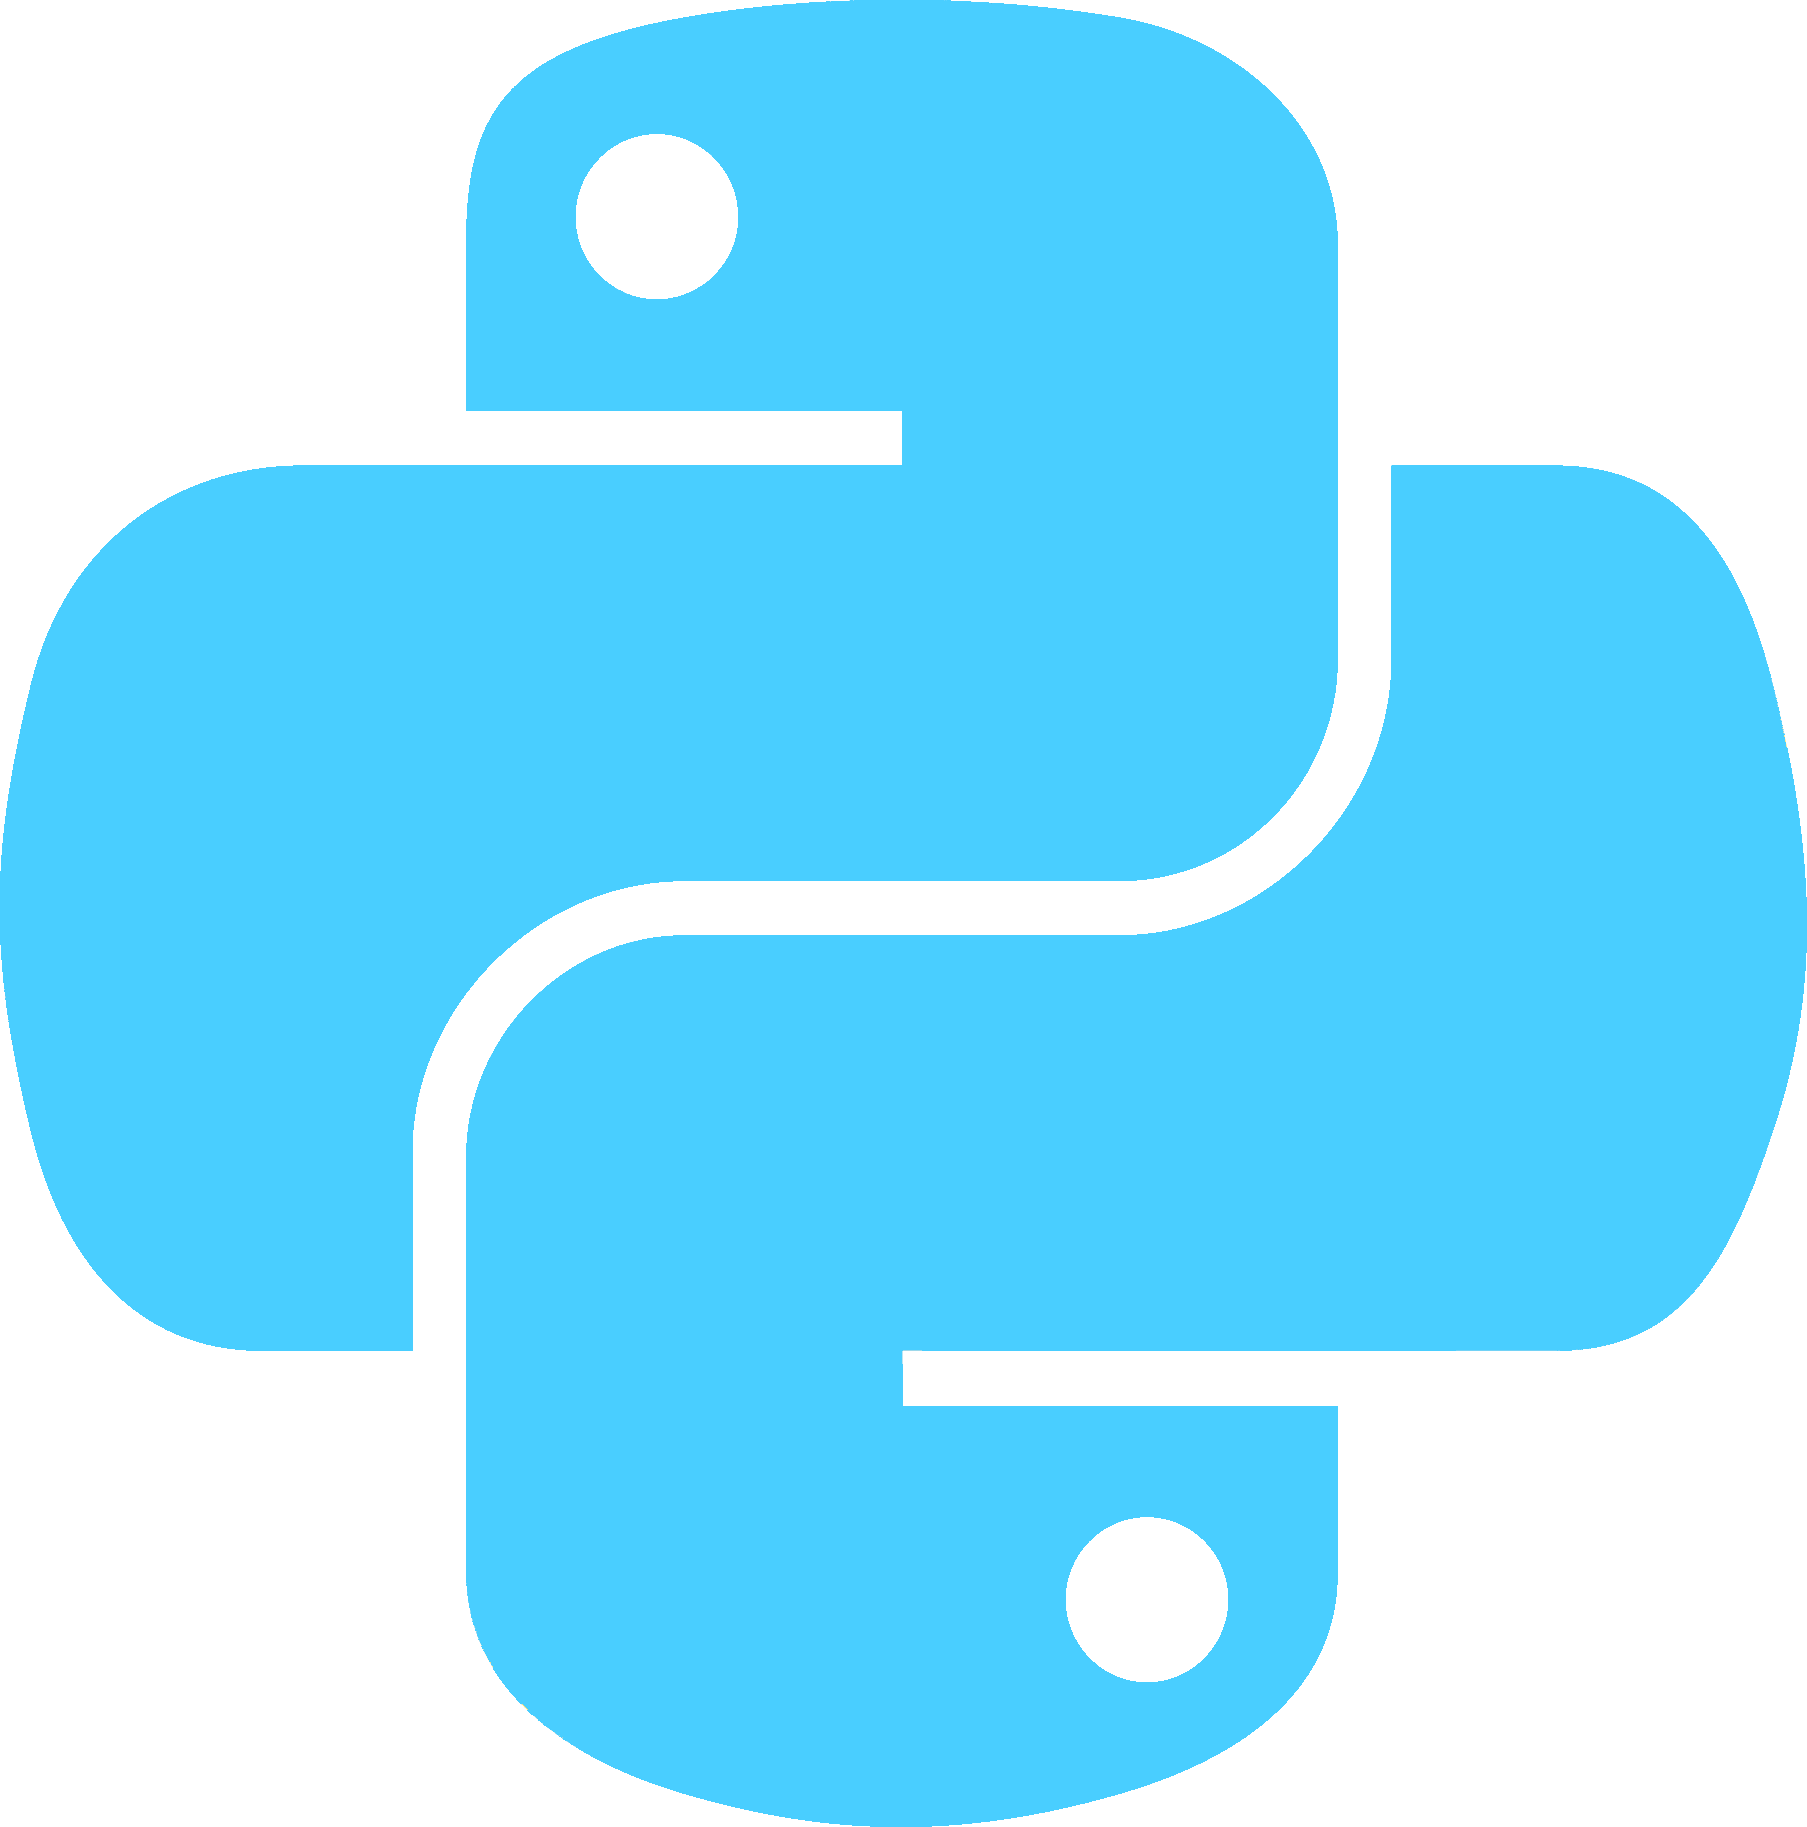
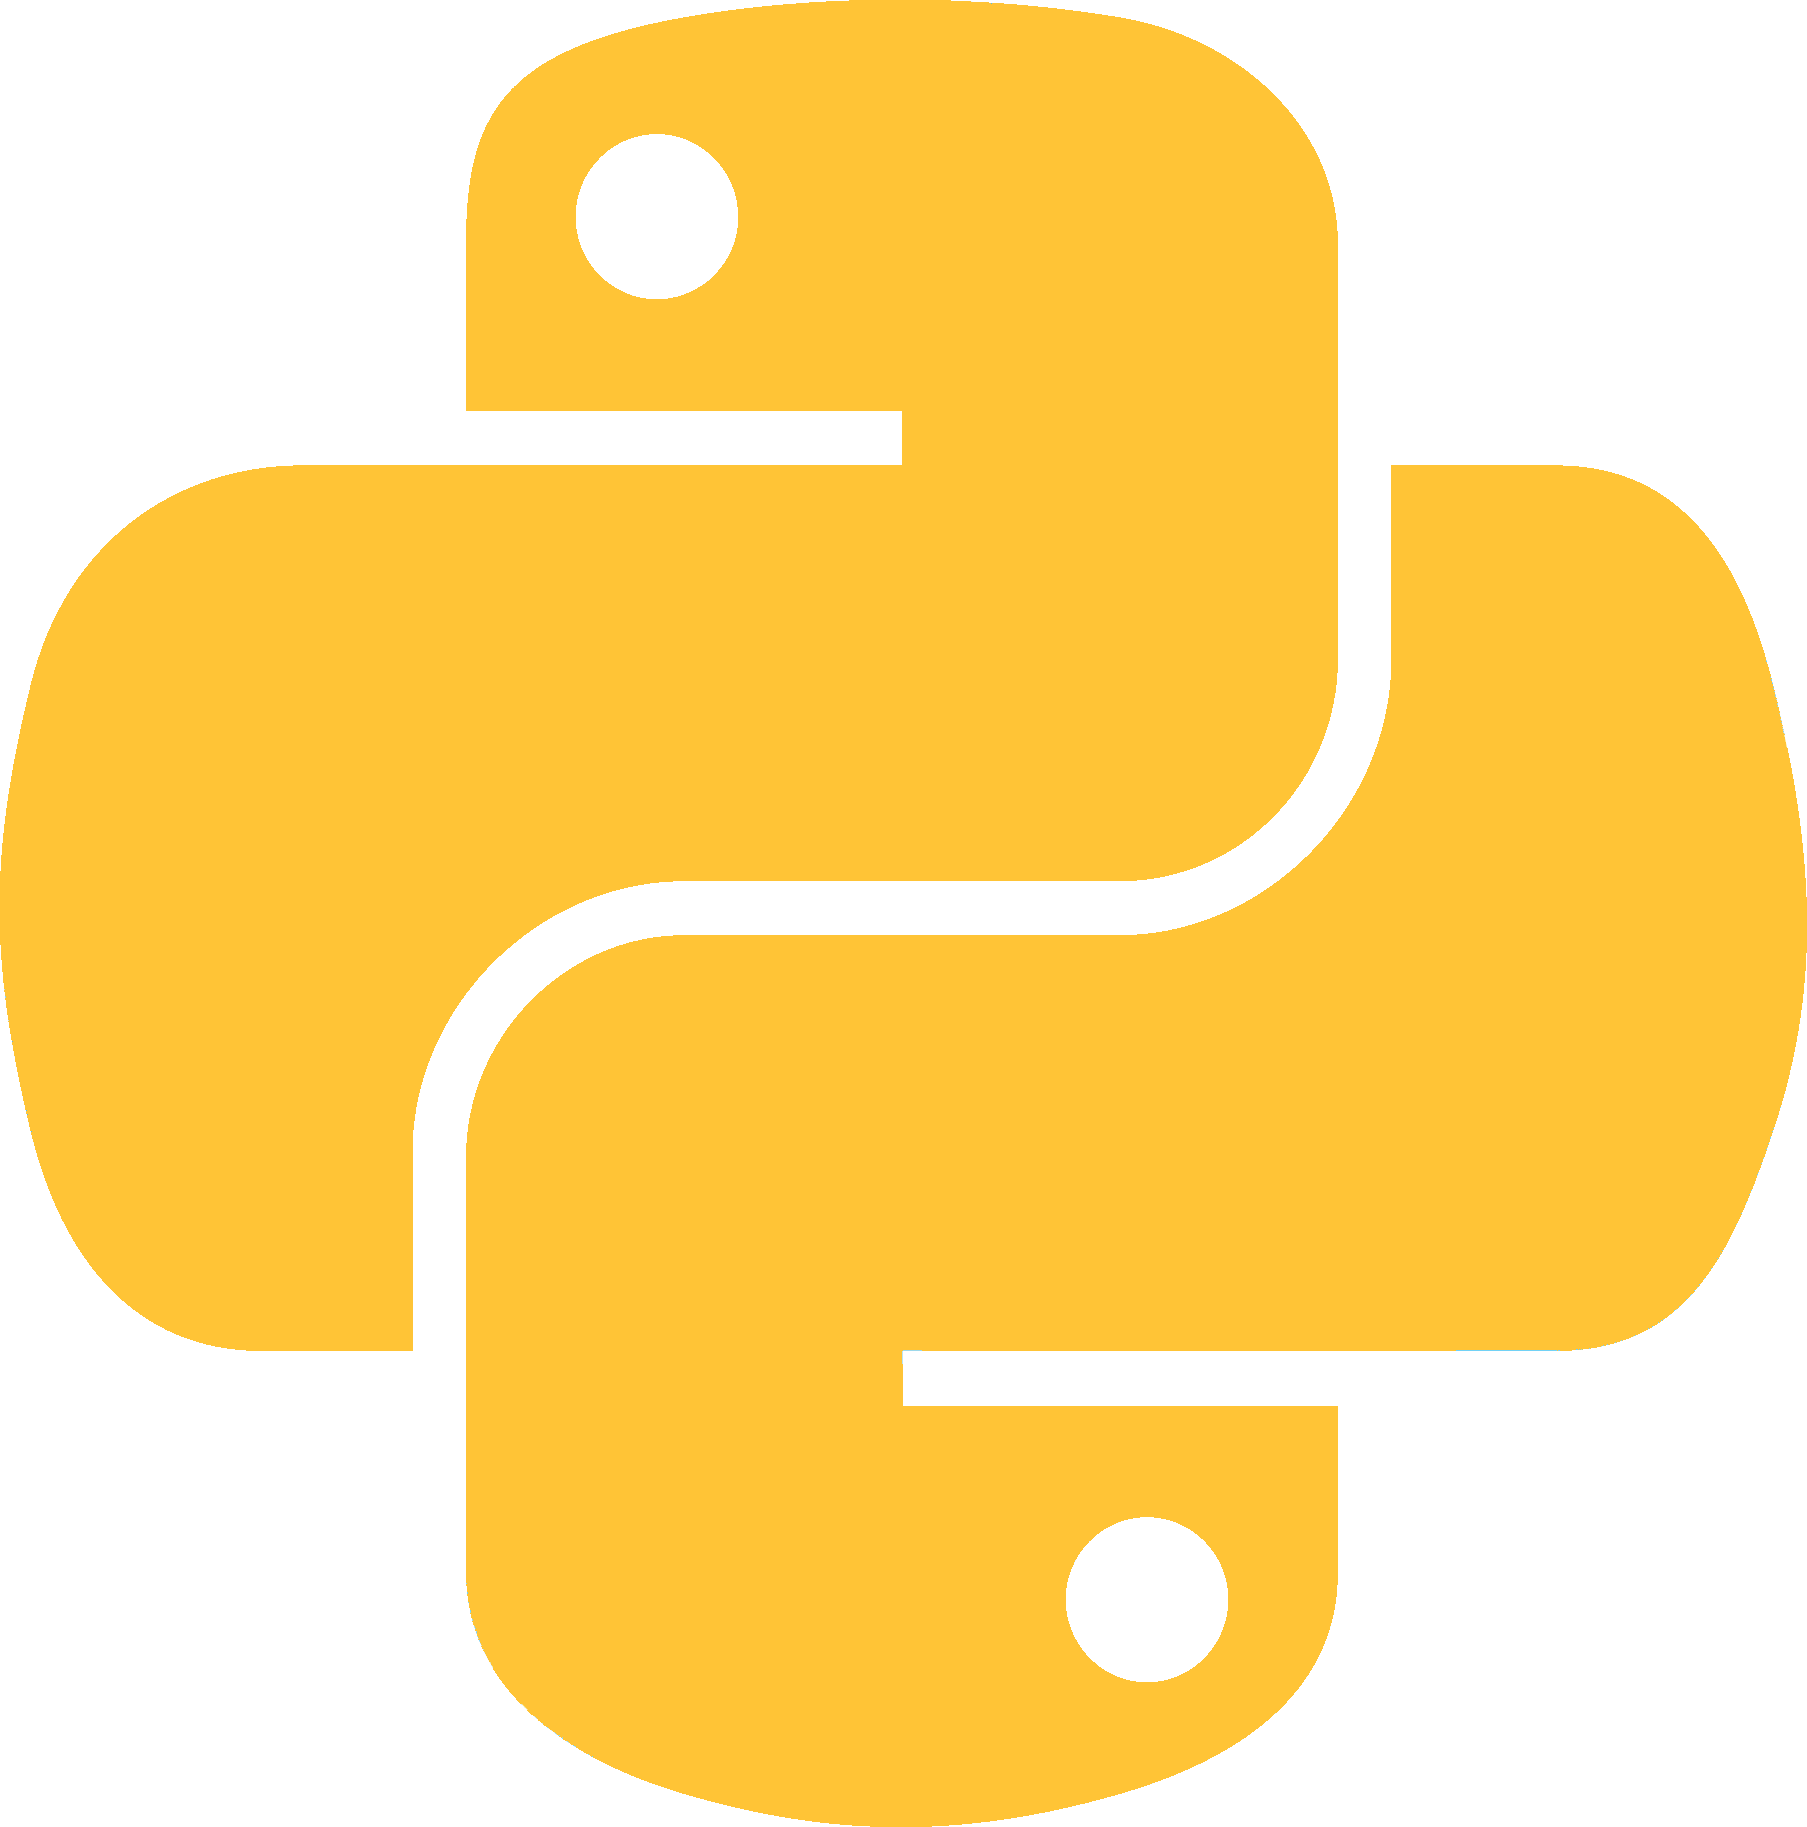
Feat: Design Changes, Taskbar in New File
- Change color scheme
- Put taskbar into own file

diff --git a/task_bar.py b/task_bar.py
@@ -1,0 +1,65 @@
+from datetime import datetime
+from PIL import Image
+
+import customtkinter as ctk
+
+from styles import desktop_colors, desktop_highlight_colors
+
+class TaskBar:
+    def __init__(self, os, gui) -> None:
+        self.os = os
+        self.gui = gui
+
+        self.create_variables()
+        self.icon_setup()
+        self.create_taskbar()
+        self.create_start_menu()
+        self.create_time_date()
+        
+
+    def create_variables(self):
+        self.WINDOW = self.gui.WINDOW
+        self.width = self.gui.width
+        self.height = self.gui.height
+
+    
+    def icon_setup(self) -> None:
+        self.python_icon = ctk.CTkImage(Image.open("assets/python_icon.png"), size=(40, 40))
+        self.snake_icon = ctk.CTkImage(light_image=Image.open("assets/snake_blue_icon.png"), dark_image=Image.open("assets/snake_yellow_icon.png"), size=(32, 32))
+
+    
+    def create_taskbar(self) -> None:
+        self.taskbar = ctk.CTkFrame(self.WINDOW, height=45, width=self.width, fg_color=desktop_colors, corner_radius=0)
+        self.taskbar.place(anchor="s", relx=0.5, rely=1)
+
+        self.taskbar_app_frame = ctk.CTkFrame(self.taskbar, fg_color="transparent")
+        self.taskbar_app_frame.place(anchor="center", relx=0.5, rely=0.5)
+
+        self.start_button = ctk.CTkButton(self.taskbar, text="", image=self.python_icon, width=45, height=45, fg_color="transparent", 
+                                          command=self.os.start_menu_mechanism, hover_color=desktop_highlight_colors)
+        self.start_button.place(anchor="w", relx=0, rely=0.5)
+
+        self.create_default_taskbar_apps()
+
+
+    def create_start_menu(self) -> None:
+        self.start_menu_frame = ctk.CTkFrame(self.WINDOW, width=self.width/6, height=self.height/4)
+        self.start_menu_frame.pack_propagate(False)
+
+        self.shut_down_button = ctk.CTkButton(self.start_menu_frame, width=self.width/20, height=self.height/20, text="Shut down", command=self.os.quit)
+        self.shut_down_button.pack()
+        self.restart_button = ctk.CTkButton(self.start_menu_frame, width=self.width/20, height=self.height/20, text="Restart", command=self.os.restart)
+        self.restart_button.pack()
+
+
+    def create_time_date(self):
+        self.time_date_frame = ctk.CTkFrame(self.taskbar, width=self.width/20, height=45, fg_color="transparent")
+        self.time_date_frame.place(anchor="e", relx=1, rely=0.5)
+
+    
+    def create_default_taskbar_apps(self):
+        self.python_game_frame = ctk.CTkFrame(self.taskbar_app_frame, fg_color="transparent")
+        self.python_game_frame.pack(padx=self.width/30)
+        self.python_game_button = ctk.CTkButton(self.python_game_frame, command=lambda: self.os.play_game("python"), width=45, height=45, text="", 
+                                                image=self.snake_icon, fg_color="transparent", hover_color=desktop_highlight_colors)
+        self.python_game_button.place(anchor="center", relx=0.5, rely=0.5)

diff --git a/desktop.py b/desktop.py
@@ -2,6 +2,8 @@ from PIL import Image
 
 import customtkinter as ctk
 
+from styles import desktop_blue, desktop_yellow
+
 class DesktopGUI:
     def __init__(self, os) -> None:
         self.os = os
@@ -25,36 +27,13 @@ class DesktopGUI:
 
 
     def icon_setup(self) -> None:
-        self.python_icon = ctk.CTkImage(Image.open("assets/python_icon.png"), size=(40, 40))
         self.python_logo = ctk.CTkImage(Image.open("assets/python_logo.png"), size=(self.height/5, self.height/5))
 
     
     def create_gui(self) -> None:
-        self.create_taskbar()
         self.create_desktop()
-        self.create_start_menu()
         self.create_desktop_actions()
         self.create_new_action()
-
-
-    def create_taskbar(self) -> None:
-        self.taskbar = ctk.CTkFrame(self.WINDOW, height=45, width=self.width, fg_color="grey", corner_radius=0)
-        self.taskbar.place(anchor="s", relx=0.5, rely=1)
-
-        self.taskbar_app_frame = ctk.CTkFrame(self.taskbar, fg_color="transparent")
-        self.taskbar_app_frame.place(anchor="center", relx=0.5, rely=0.5)
-
-        self.start_button = ctk.CTkButton(self.taskbar, text="", image=self.python_icon, width=45, height=45, fg_color="transparent", command=self.os.start_menu_mechanism)
-        self.start_button.place(anchor="w", relx=0, rely=0.5)
-
-        self.create_default_taskbar_apps()
-
-    
-    def create_default_taskbar_apps(self):
-        self.python_game_frame = ctk.CTkFrame(self.taskbar_app_frame, fg_color="transparent")
-        self.python_game_frame.pack(padx=self.width/30)
-        self.python_game_button = ctk.CTkButton(self.python_game_frame, command=lambda: self.os.play_game("python"), width=45, height=45, text="")
-        self.python_game_button.place(anchor="center", relx=0.5, rely=0.5)
 
 
     def create_desktop(self) -> None:
@@ -62,15 +41,6 @@ class DesktopGUI:
         self.desktop_frame.place(anchor="n", relx=0.5, rely=0)
         self.desktop_logo = ctk.CTkLabel(self.desktop_frame, image=self.python_logo, text="")
         self.desktop_logo.place(anchor="center", relx=0.5, rely=0.5)
-
-    
-    def create_start_menu(self) -> None:
-        self.start_menu_frame = ctk.CTkFrame(self.WINDOW)
-
-        self.shut_down_button = ctk.CTkButton(self.start_menu_frame, width=self.width/20, height=self.height/20, text="Shut down", command=self.os.quit)
-        self.shut_down_button.pack()
-        self.restart_button = ctk.CTkButton(self.start_menu_frame, width=self.width/20, height=self.height/20, text="Restart", command=self.os.restart)
-        self.restart_button.pack()
 
 
     def create_desktop_actions(self) -> None:

diff --git a/python_game.py b/python_game.py
@@ -3,7 +3,7 @@ import random
 import customtkinter as ctk
 from playsound import playsound
 
-from styles import button_font_color, button_color, python_blue, python_yellow, button_font_size, font_family_bold, button_hover_color, font_color, font_size_big, font_size_xxl, font_family
+from styles import button_font_color, button_color, python_blue, python_yellow, button_font_size, font_family_bold, button_hover_color, font_color, font_size_big, font_size_xxl, font_family, desktop_colors
 
 class PythonGame:
     def __init__(self, os_window) -> None:
@@ -26,16 +26,19 @@ class PythonGame:
     
     def create_window(self) -> None:
         self.WINDOW = ctk.CTkToplevel()
+        self.WINDOW.iconbitmap("Assets/snake_yellow_icon.ico")
         self.WINDOW.geometry(str(self.WINDOW_WIDTH) + "x" + str(self.WINDOW_HEIGHT))
-        self.WINDOW.configure(fg_color=(python_yellow, python_blue))
-        self.WINDOW.title("Python.exe")
+        self.WINDOW.configure(fg_color=desktop_colors)
+        self.WINDOW.title("Python Game")
         self.WINDOW.attributes("-topmost", True)
         self.WINDOW.grab_set()
         self.WINDOW.resizable(False, False)
 
+        self.WINDOW.after(200, lambda: self.WINDOW.iconbitmap("Assets/snake_yellow_icon.ico"))
+
 
     def create_main_menu(self):
-        self.main_menu_frame = ctk.CTkFrame(self.WINDOW, width=self.WINDOW_WIDTH, height=self.WINDOW_HEIGHT, fg_color=(python_yellow, python_blue))
+        self.main_menu_frame = ctk.CTkFrame(self.WINDOW, width=self.WINDOW_WIDTH, height=self.WINDOW_HEIGHT, fg_color=desktop_colors)
         self.main_menu_frame.pack()
         header = ctk.CTkLabel(self.main_menu_frame, text="PYTHON", text_color=font_color, font=(font_family_bold, font_size_xxl))
         header.place(anchor="n", relx=0.5, rely=0.05)
@@ -338,7 +341,7 @@ class PythonGame:
         self.WINDOW_HEIGHT = 400
 
         self.WINDOW.geometry("400x400")
-        self.game_over_frame = ctk.CTkFrame(self.WINDOW, width=self.WINDOW_WIDTH, height=self.WINDOW_HEIGHT, fg_color=(python_yellow, python_blue))
+        self.game_over_frame = ctk.CTkFrame(self.WINDOW, width=self.WINDOW_WIDTH, height=self.WINDOW_HEIGHT, fg_color=desktop_colors)
         self.game_over_frame.pack()
         game_over_text = ctk.CTkLabel(self.game_over_frame, text="Game Over!", font=(font_family_bold, font_size_xxl), text_color=font_color)
         game_over_text.place(anchor="n", relx=0.5, rely=0.05)

diff --git a/styles.py b/styles.py
@@ -4,6 +4,16 @@ python_yellow = "#ffe66d"
 python_blue_highlight = "#3e86c1"
 python_yellow_highlight = "#ffef9e"
 
+desktop_blue = "#061d3b"
+desktop_yellow = "#FFC436"
+
+desktop_colors = (desktop_yellow, desktop_blue)
+
+desktop_blue_highlight = "#0b356b"
+desktop_yellow_highlight = "#ffd36b"
+
+desktop_highlight_colors = (desktop_yellow_highlight, desktop_blue_highlight)
+
 font_family = "Segoe UI"
 font_family_bold = "Segoe UI bold"
 
@@ -14,19 +24,19 @@ font_size_small = 20
 
 button_font_size = font_size_big
 
-light_font_color = python_blue
-dark_font_color = python_yellow
+light_font_color = desktop_blue
+dark_font_color = desktop_yellow
 
 font_color = (light_font_color, dark_font_color)
 
-light_button_color = python_blue
-dark_button_color = python_yellow
+light_button_color = desktop_blue
+dark_button_color = desktop_yellow
 
 button_color = (light_button_color, dark_button_color)
 
-light_button_font_color = python_yellow
-dark_button_font_color = python_blue
+light_button_font_color = desktop_yellow
+dark_button_font_color = desktop_blue
 
 button_font_color = (light_button_font_color, dark_button_font_color)
 
-button_hover_color = (python_blue_highlight, python_yellow_highlight)
+button_hover_color = (desktop_blue_highlight, desktop_yellow_highlight)

diff --git a/main.py b/main.py
@@ -1,11 +1,13 @@
 import sys, os
 
-from DesktopGUI import DesktopGUI
+from desktop import DesktopGUI
+from task_bar import TaskBar
 from python_game import PythonGame
 
 class OS:
     def __init__(self) -> None:
         self.gui = DesktopGUI(self)
+        self.task_bar = TaskBar(self, self.gui)
         self.create_variables()
         self.create_binds()
         self.run()
@@ -46,14 +48,14 @@ class OS:
     
     def start_menu_mechanism(self) -> None:
         if not self.start_menu_open:
-            self.gui.start_menu_frame.place(anchor="sw", relx=0, rely=0.96)
+            self.task_bar.start_menu_frame.place(anchor="sw", relx=0, rely=0.96)
         else:
-            self.gui.start_menu_frame.place_forget()
+            self.task_bar.start_menu_frame.place_forget()
         self.start_menu_open = not self.start_menu_open
 
     
     def close_start_menu(self) -> None:
-        self.gui.start_menu_frame.place_forget()
+        self.task_bar.start_menu_frame.place_forget()
         self.start_menu_open = False
 
         self.gui.desktop_actions_frame.place_forget()
